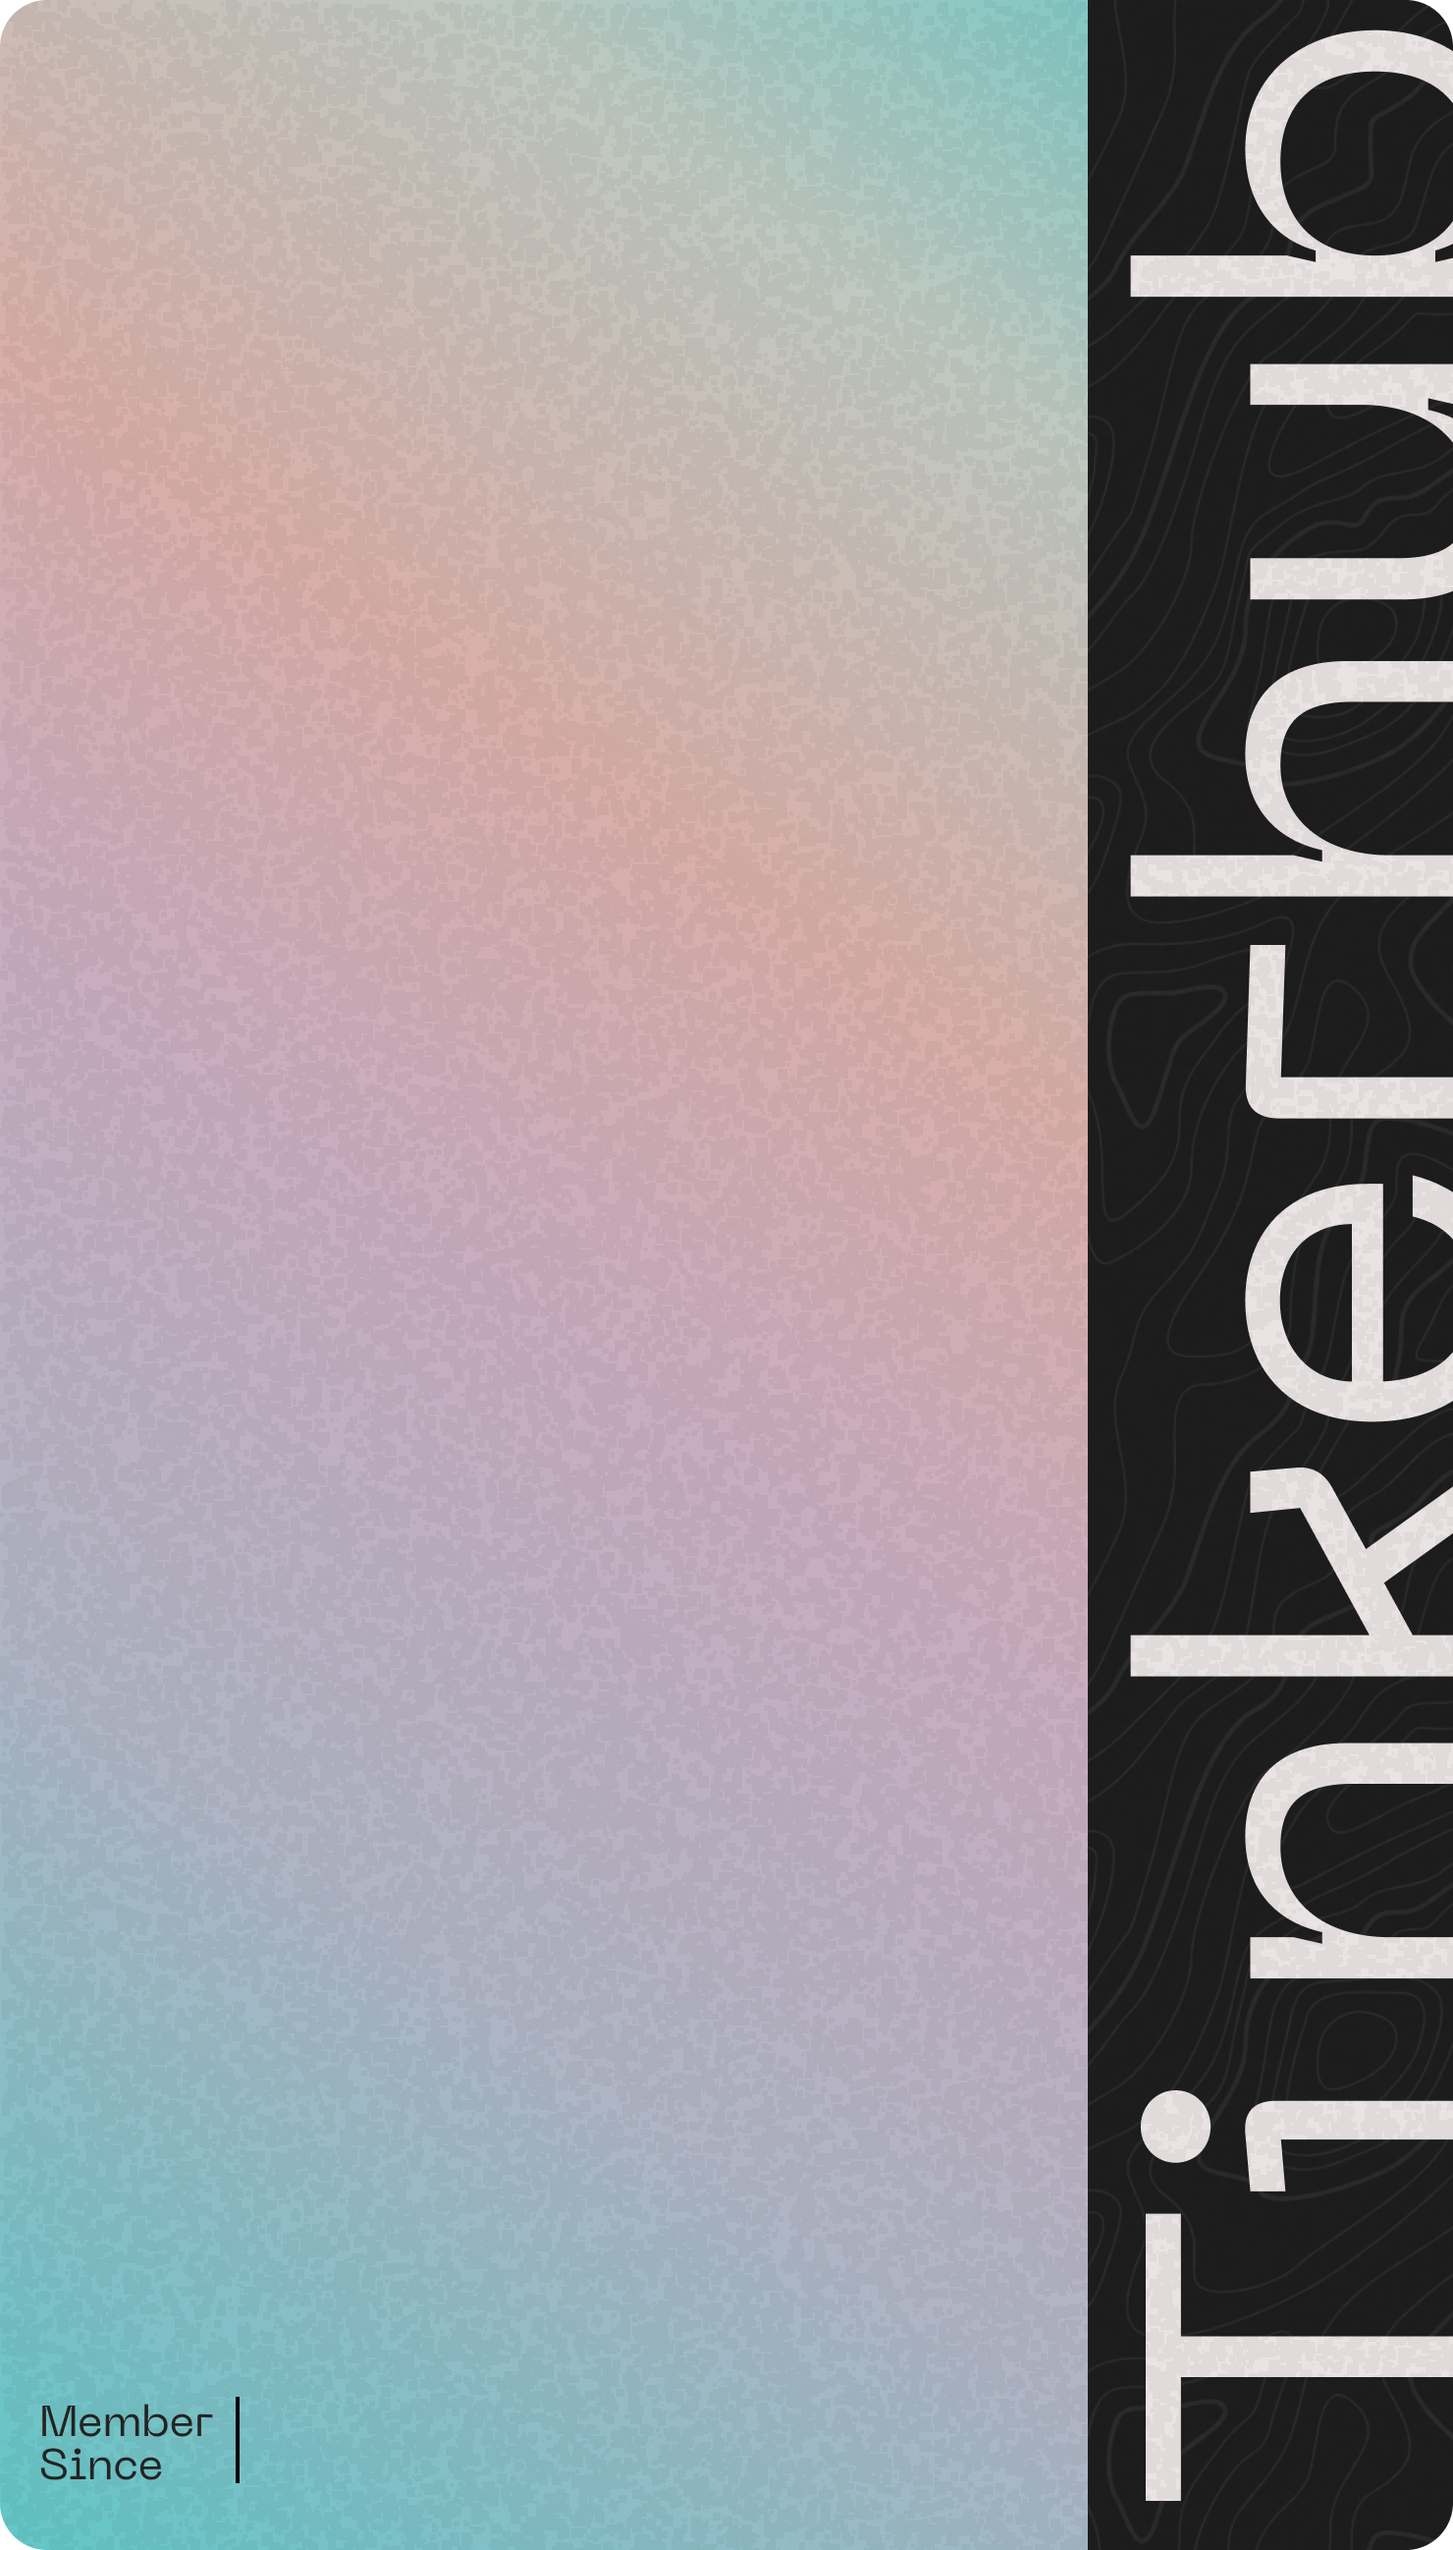
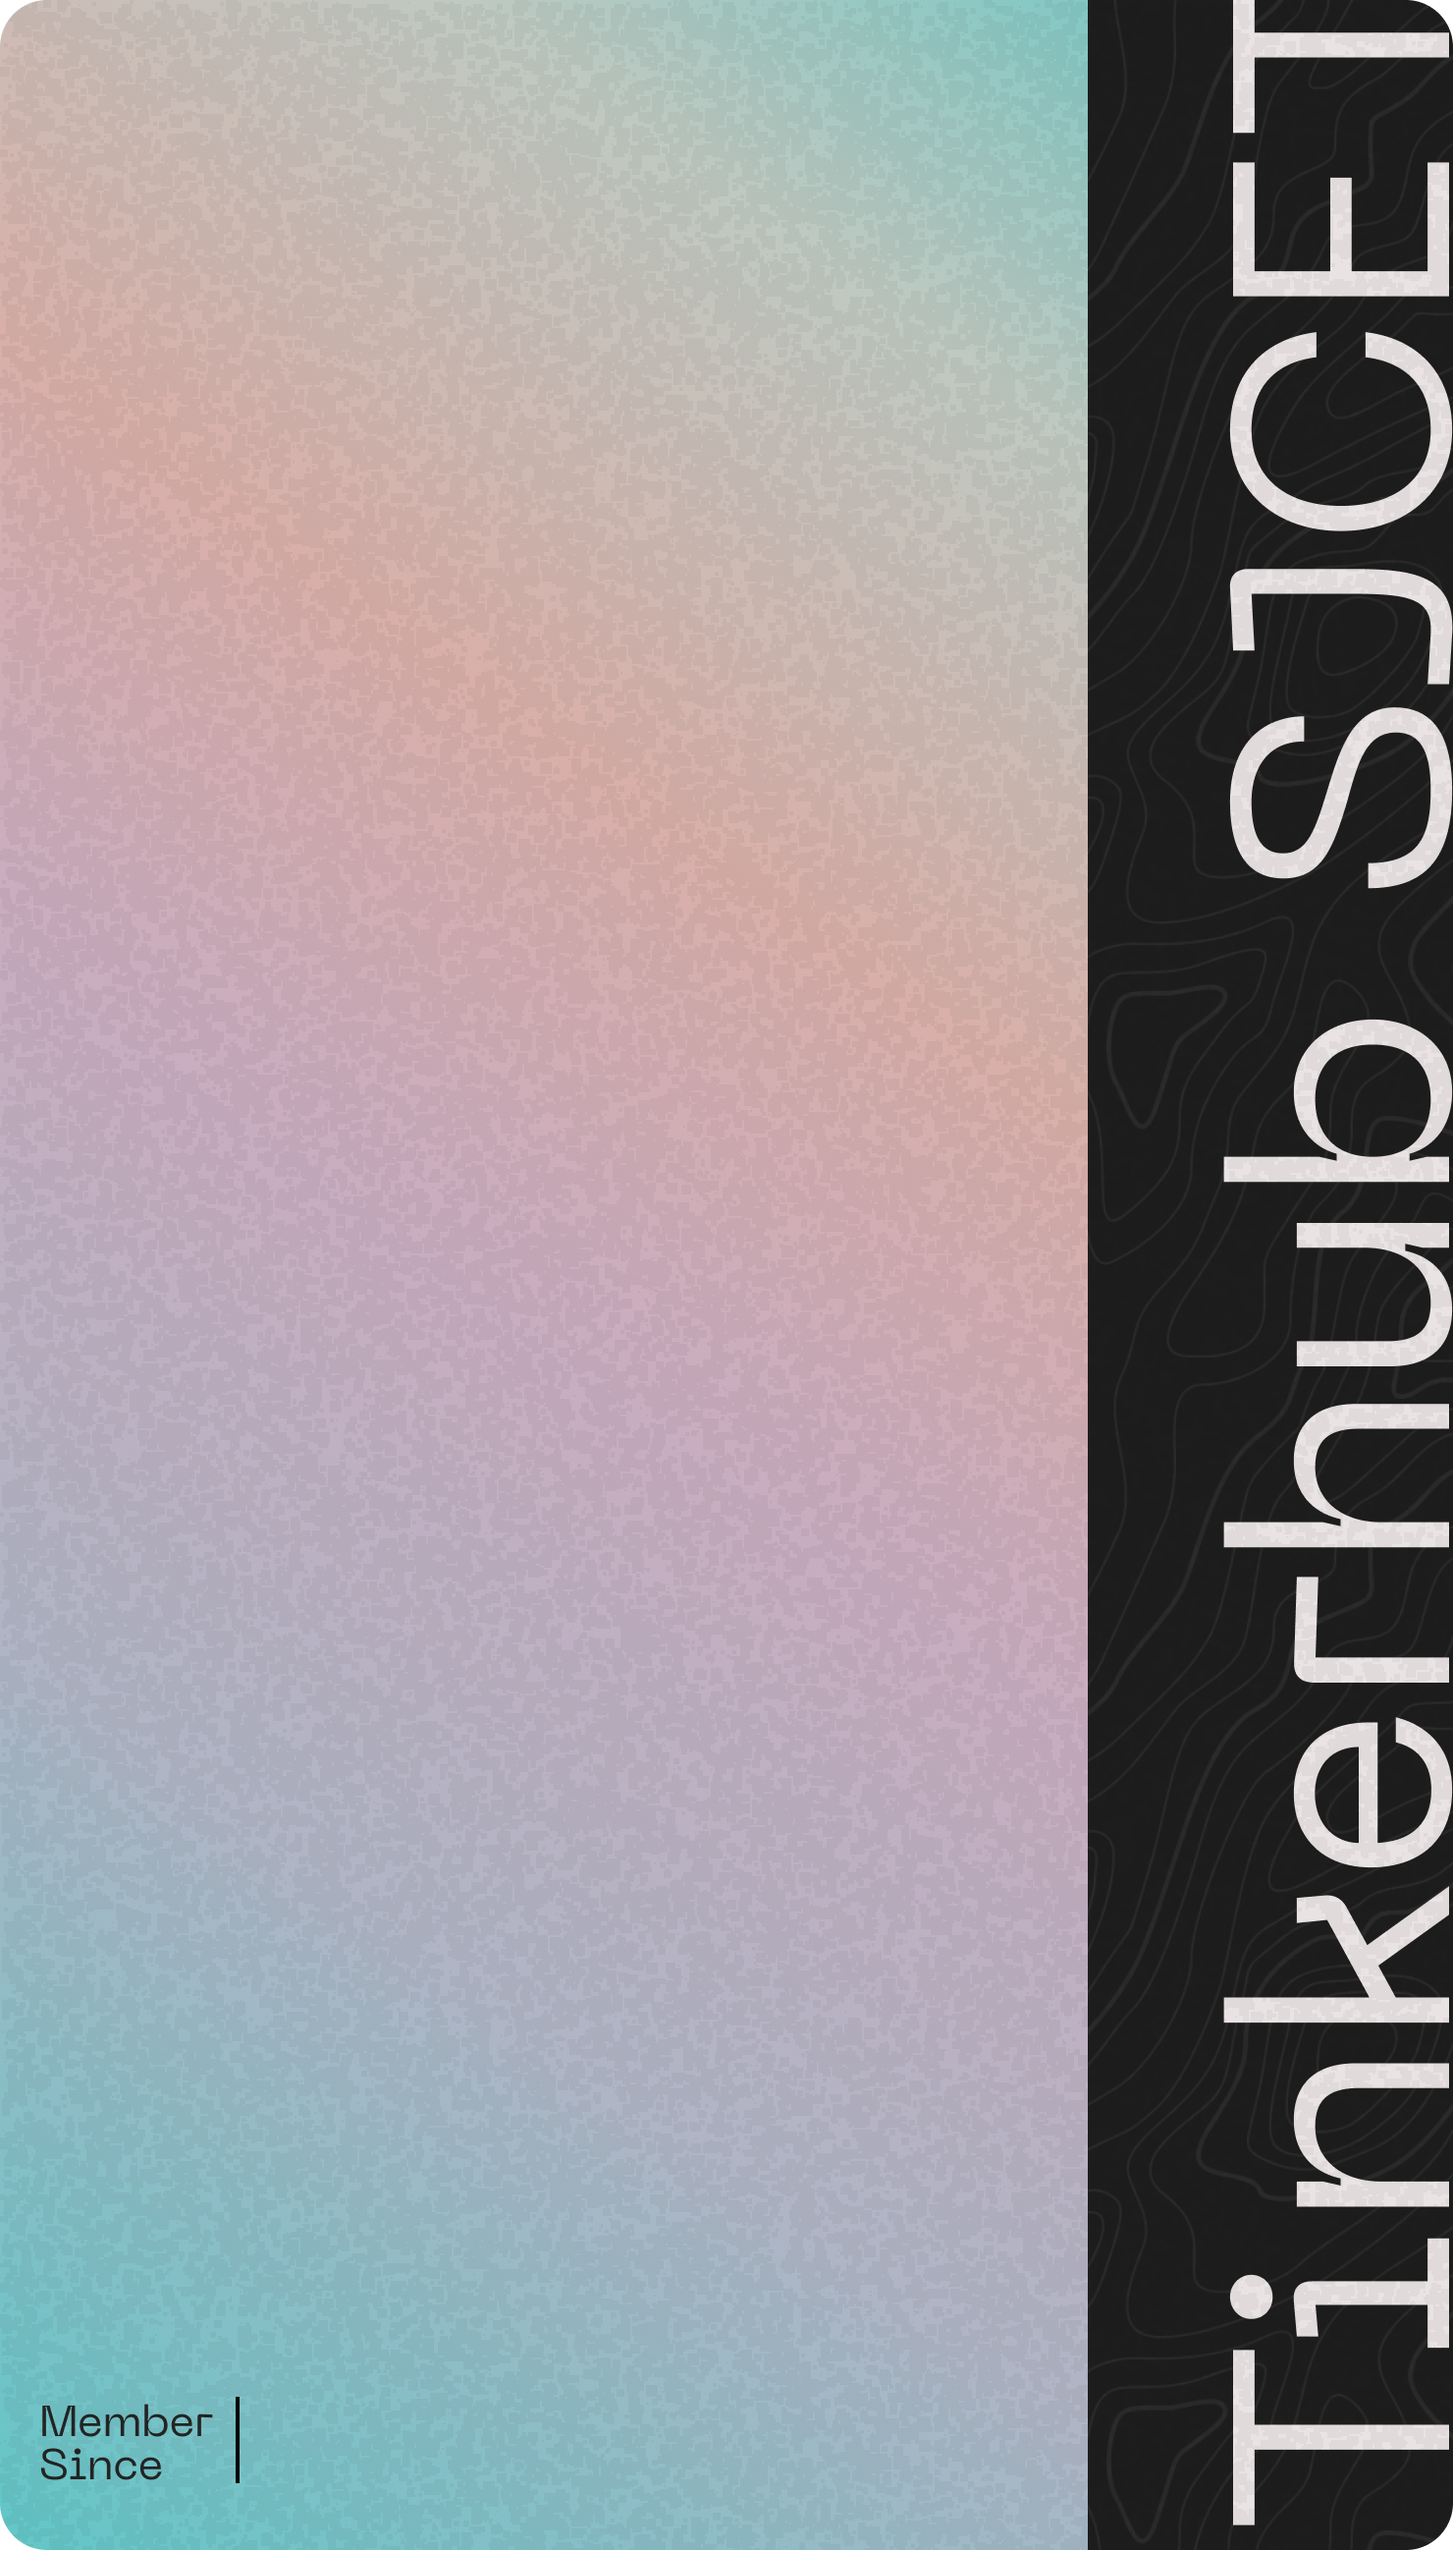
card modified

Changed region(s): [[0.777, 0.0, 1.0, 0.9985]]

diff --git a/styles.css b/styles.css
@@ -60,11 +60,11 @@ body {
 
 
         .popUpContainer {
-            width: 300px;
-            height: 500px;
+            width: 330px;
+            height: 570px;
             background: #fff;
             padding: 20px;
-            border: 1px solid #efefef;
+            border: 2px solid #03608145;
             border-radius: 10px;
             display: flex;
             align-items: center;
@@ -72,24 +72,27 @@ body {
             gap: 20px;
             position: relative;
             flex-direction: column;
+            box-shadow: 0px 1.1px 2.2px rgba(0, 0, 0, 0.017), 0px 2.7px 5.4px rgba(0, 0, 0, 0.024), 0px 5px 10.1px rgba(0, 0, 0, 0.03), 0px 8.9px 18.1px rgba(0, 0, 0, 0.036), 0px 16.7px 33.8px rgba(0, 0, 0, 0.043), 0px 40px 81px rgba(0, 0, 0, 0.06);
+
 
             & input {
                 background: #efefef;
-                padding: 10px 25px;
+                width: 220px;
+                padding: 10px 15px;
                 border-radius: 10px;
                 text-transform: uppercase;
             }
 
             .submit {
                 position: absolute;
-                top: 29px;
-                right: 73px;
+                top: 20px;
+                right: 60px;
                 background: #036081;
-                width: 20px;
-                height: 20px;
-                border-radius: 50%;
+                width: 40px;
+                height: 35px;
+                border-radius: 0px 10px 10px 0px;
                 padding: 0px;
-                background-image: url("/images/next.png");
+                background-image: url(/images/next.png);
                 background-position: center;
                 background-size: 8px;
                 background-repeat: no-repeat;
@@ -111,10 +114,12 @@ body {
 
             .cardDesign {
                 position: relative;
-                height: 369px;
-                width: 210px;
+                height: 440px;
+                width: 251px;
                 border-radius: 8px;
                 overflow: hidden;
+                background-color: transparent;
+
 
                 & img {
                     position: absolute;
@@ -123,42 +128,43 @@ body {
                     width: 100%;
                     height: 100%;
                     object-fit: contain;
-                    /* border-radius: 8px;
+                    /* border-radius: 8px; */
                     overflow: hidden;
-                    background-color: transparent; */
+                    background-color: transparent;
                 }
 
                 .name {
                     position: absolute;
-                    top: 150px;
+                    top: 140px;
                     left: 10px;
-                    width: 130px;
-                    line-height: 15px;
+                    width: 90px;
+                    line-height: 30px;
                     border-radius: 10px;
-                    font-weight: 600;
+                    font-size: 30px;
+                    font-weight: 500;
                     /* color: white; */
                 }
 
                 .memberId {
-                    font-size: 12px;
+                    font-size: 16px;
                     position: absolute;
-                    top: 180px;
+                    top: 200px;
                     left: 10px;
                     color: #686767;
                 }
 
                 .date {
-                    font-size: 3px;
+                    font-size: 4px;
                     position: absolute;
-                    top: 347px;
-                    left: 37px;
+                    top: 413px;
+                    left: 46px;
                 }
 
                 .dateYear {
-                    font-size: 9px;
+                    font-size: 12px;
                     position: absolute;
-                    top: 350px;
-                    left: 37px;
+                    top: 416px;
+                    left: 45px;
                 }
             }
         }
